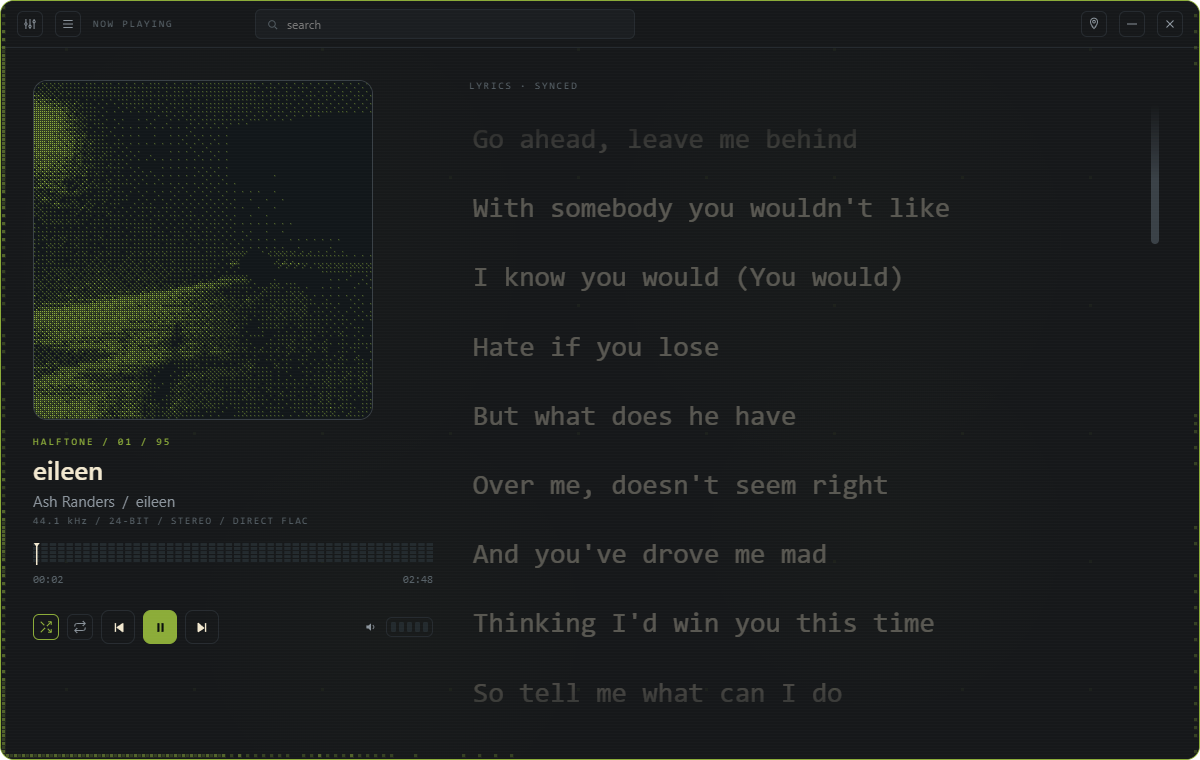
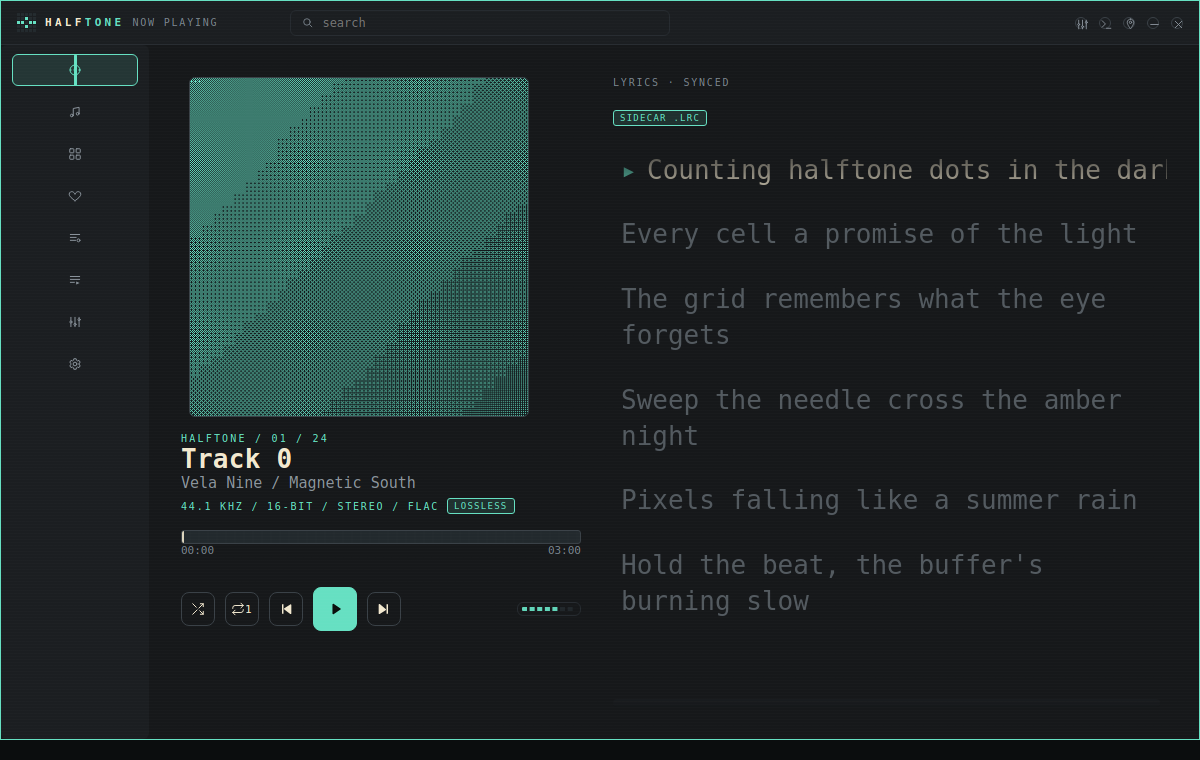
README: v0.2.0 screenshots + cover art docs
Screenshots retaken from the harness CDP matrix (analogue dark,
digital light, widget, now playing, cover menu, settings); old
hero/library/eq shots dropped — they no longer reflect the UI.
Cover art section now states the lookup sources, priority order,
7-day retry, and the opt-out setting; network disclosure lists
iTunes/MusicBrainz/CAA with what is sent. OTA example bumped to
current 0.2.0.

diff --git a/README.md b/README.md
@@ -42,15 +42,14 @@ translucent panels, blur and gloss — with the same layout and feature set unde
 
 ## Screenshots
 
-<!-- TODO(v0.2.0): retake screenshots — Analogue + Digital themes, light + dark modes -->
-
 | | |
 |---|---|
-| **The widget** — always-on-top, resizable, scales 0.7–2.4× | ![widget](docs/screen_widget.png) |
-| **Now playing** — dither art, 28px synced lyrics, ambient dither field | ![now playing](docs/screen_nowplaying.png) |
-| **Lyrics off** — art scales into a centered hero | ![hero](docs/screen_hero.png) |
-| **Library** — tracks/albums/liked/playlists with search | ![library](docs/screen_library.png) |
-| **Equalizer** — 10-band LED ladders, AutoEQ import | ![eq](docs/screen_eq.png) |
+| **Analogue (dark)** — the library: dither art, LED seek, mono/print chrome | ![analogue dark](docs/screen_analogue_dark.png) |
+| **Digital (light)** — Frutiger Aero × liquid glass, same layout underneath | ![digital light](docs/screen_digital_light.png) |
+| **The widget** — always-on-top, card/strip/square/lyrics presets | ![widget](docs/screen_widget.png) |
+| **Now playing** — 28px synced lyrics with auto-follow, ambient dither field | ![now playing](docs/screen_nowplaying.png) |
+| **Change cover art** — right-click any track, tile, or art | ![cover menu](docs/screen_cover_menu.png) |
+| **Searchable settings** — generated, filtered, applied live | ![settings](docs/screen_settings.png) |
 
 ## Features
 
@@ -110,9 +109,13 @@ translucent panels, blur and gloss — with the same layout and feature set unde
 
 ### Cover art
 - Files without embedded art get cover art **automatically** — looked up from
-  iTunes/MusicBrainz (Cover Art Archive) and cached locally
+  iTunes and MusicBrainz / Cover Art Archive (no API keys) and cached locally
 - **Right-click → Change cover art**: import an image, search the web, or reset to
   embedded/auto — your choice is remembered across restarts and applies per album
+- Priority: **your choice > embedded art > web**; failed lookups are retried
+  after 7 days
+- Turn the automatic lookups off with **"Fetch missing cover art online"** in
+  Settings
 
 ### Equalizer
 - 10-band graphic EQ (31 Hz – 16 kHz) with per-band LED ladders
@@ -239,8 +242,10 @@ Notes:
 - **Single audio owner** — exactly one `<audio>` element exists in the whole app; the widget
   constructs no audio objects
 - **Local first, network only where you allow it** — no account, no telemetry. The only
-  network calls are LRCLIB lyrics lookups, cover-art lookups (iTunes/MusicBrainz) and OTA
-  update checks — each one can be disabled in Settings (OTA also honors `HALFTONE_NO_OTA`)
+  network calls are LRCLIB lyrics lookups, cover-art lookups (iTunes Search API +
+  MusicBrainz / Cover Art Archive — artist and album name only) and OTA
+  update checks — each one can be disabled in Settings (cover art:
+  "Fetch missing cover art online"; OTA also honors `HALFTONE_NO_OTA`)
 
 ## Known limitations
 

diff --git a/docs/BACKEND_API.md b/docs/BACKEND_API.md
@@ -99,7 +99,7 @@ Notes:
   "supported": true,
   "checking": false,
   "disabled": false,        // HALFTONE_NO_OTA set
-  "current": "0.1.2",
+  "current": "0.2.0",
   "available": "0.2.0",     // null when up to date
   "downloading": false,
   "ready": false,           // staged, applies on next start
